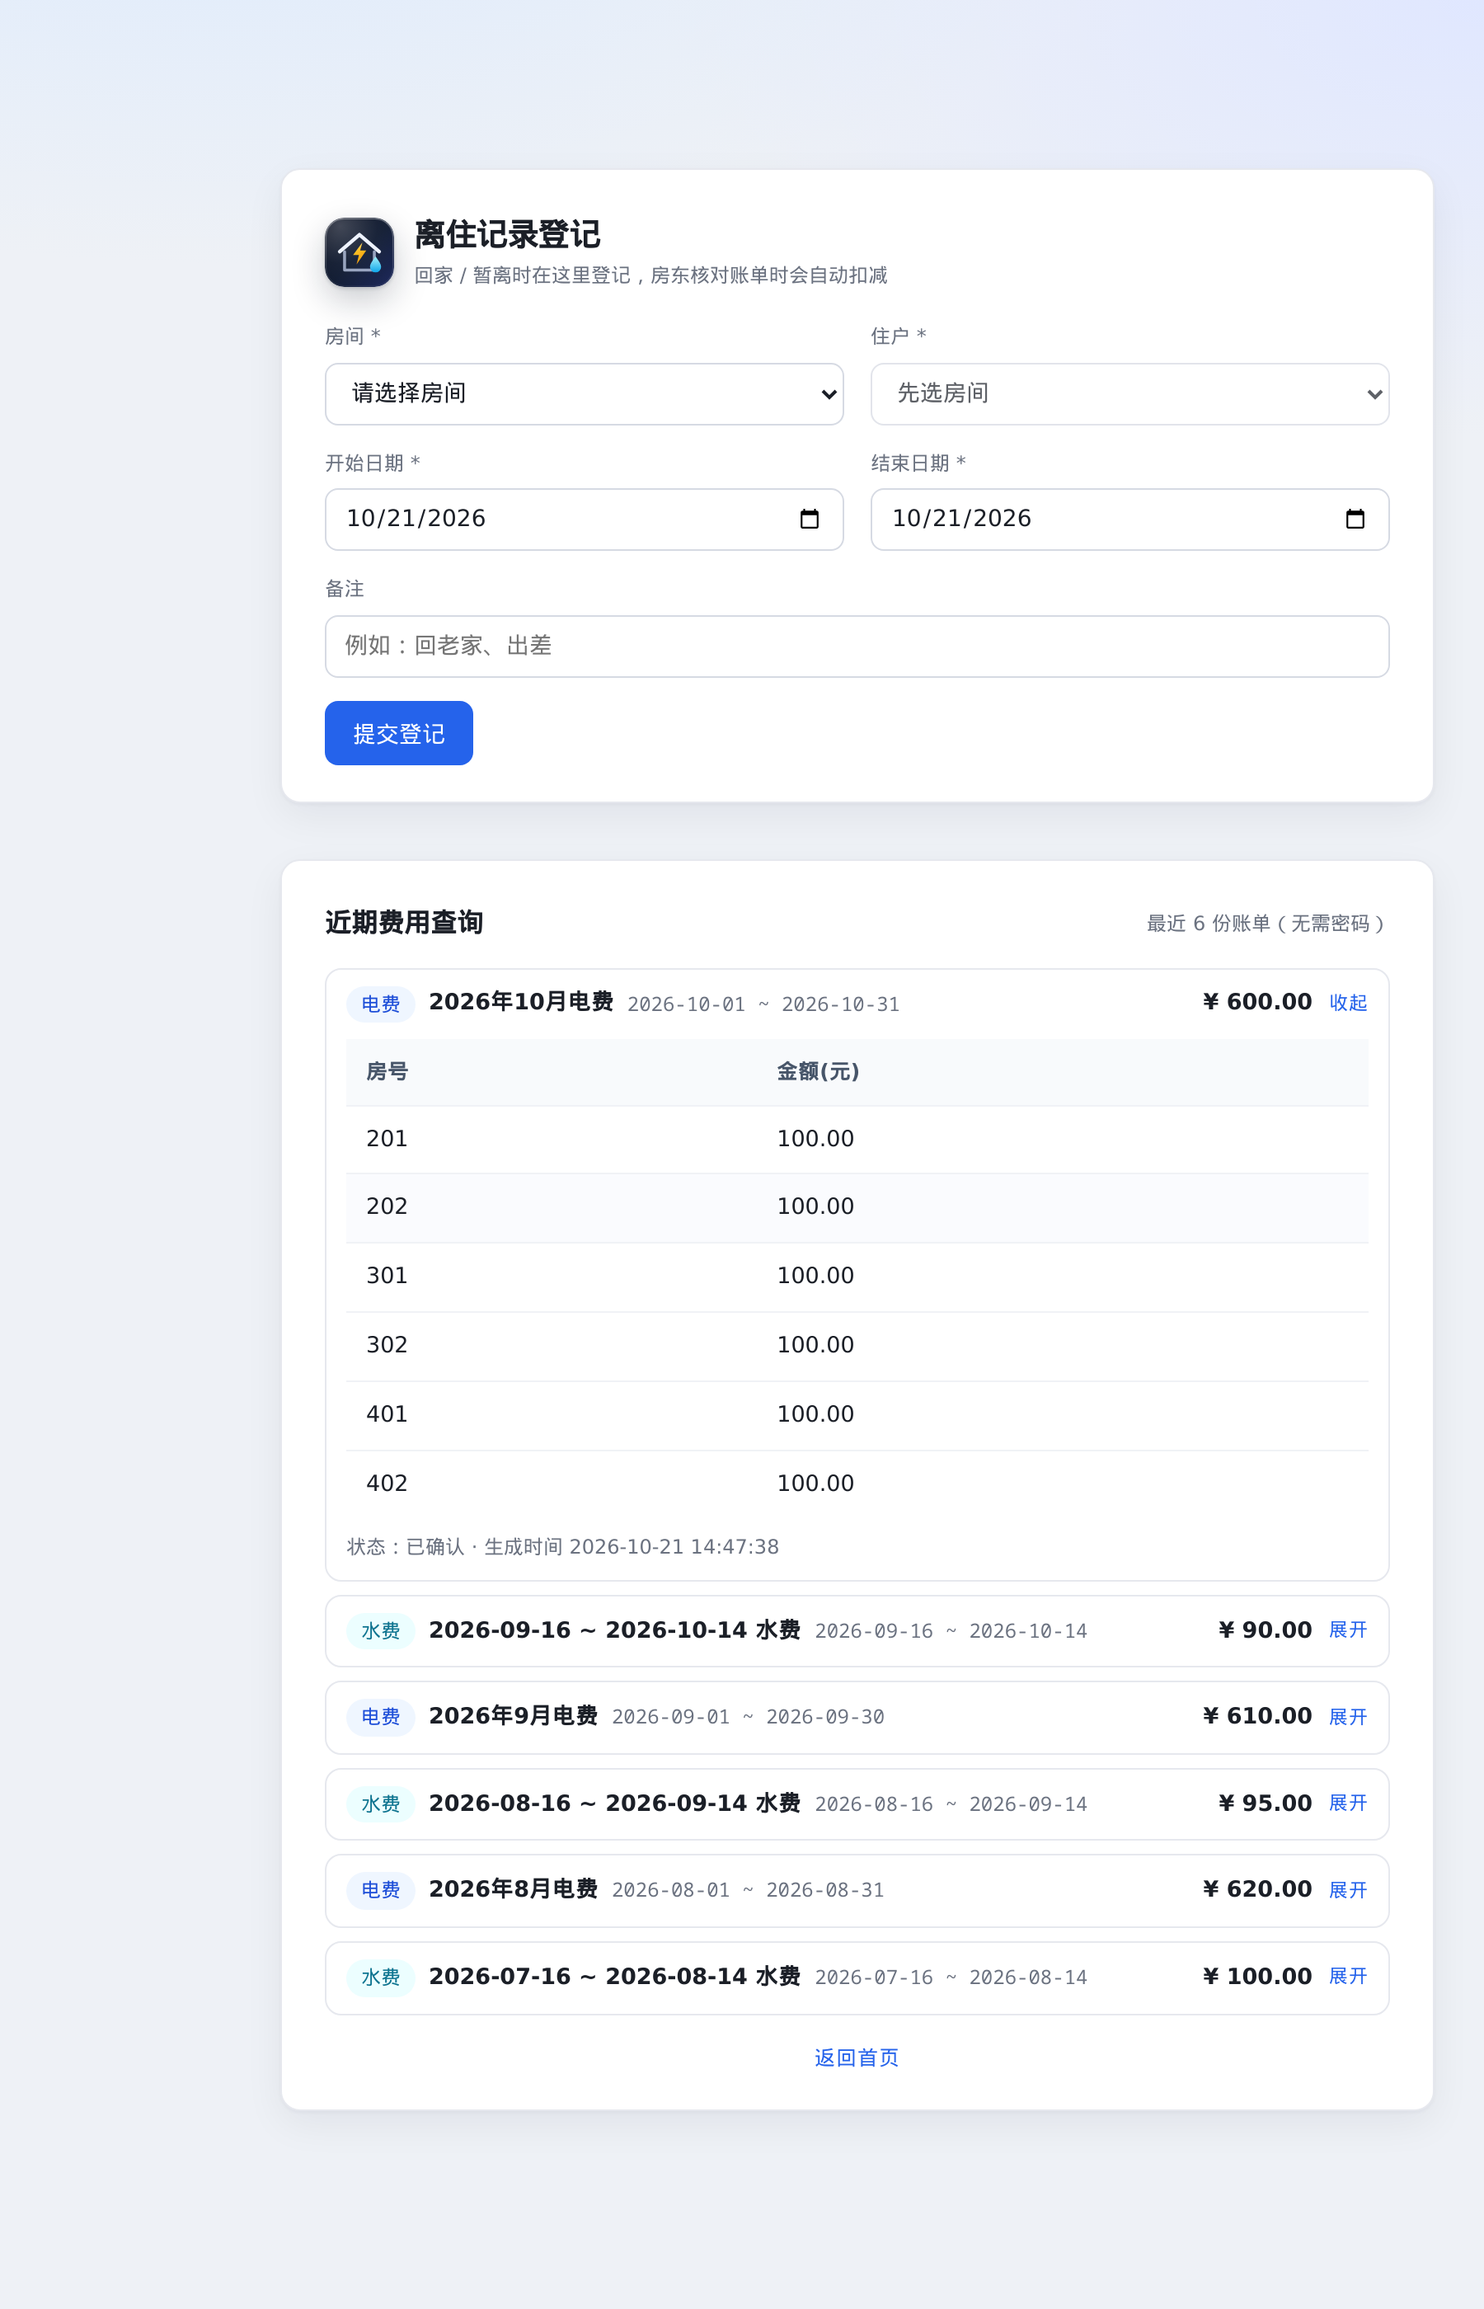
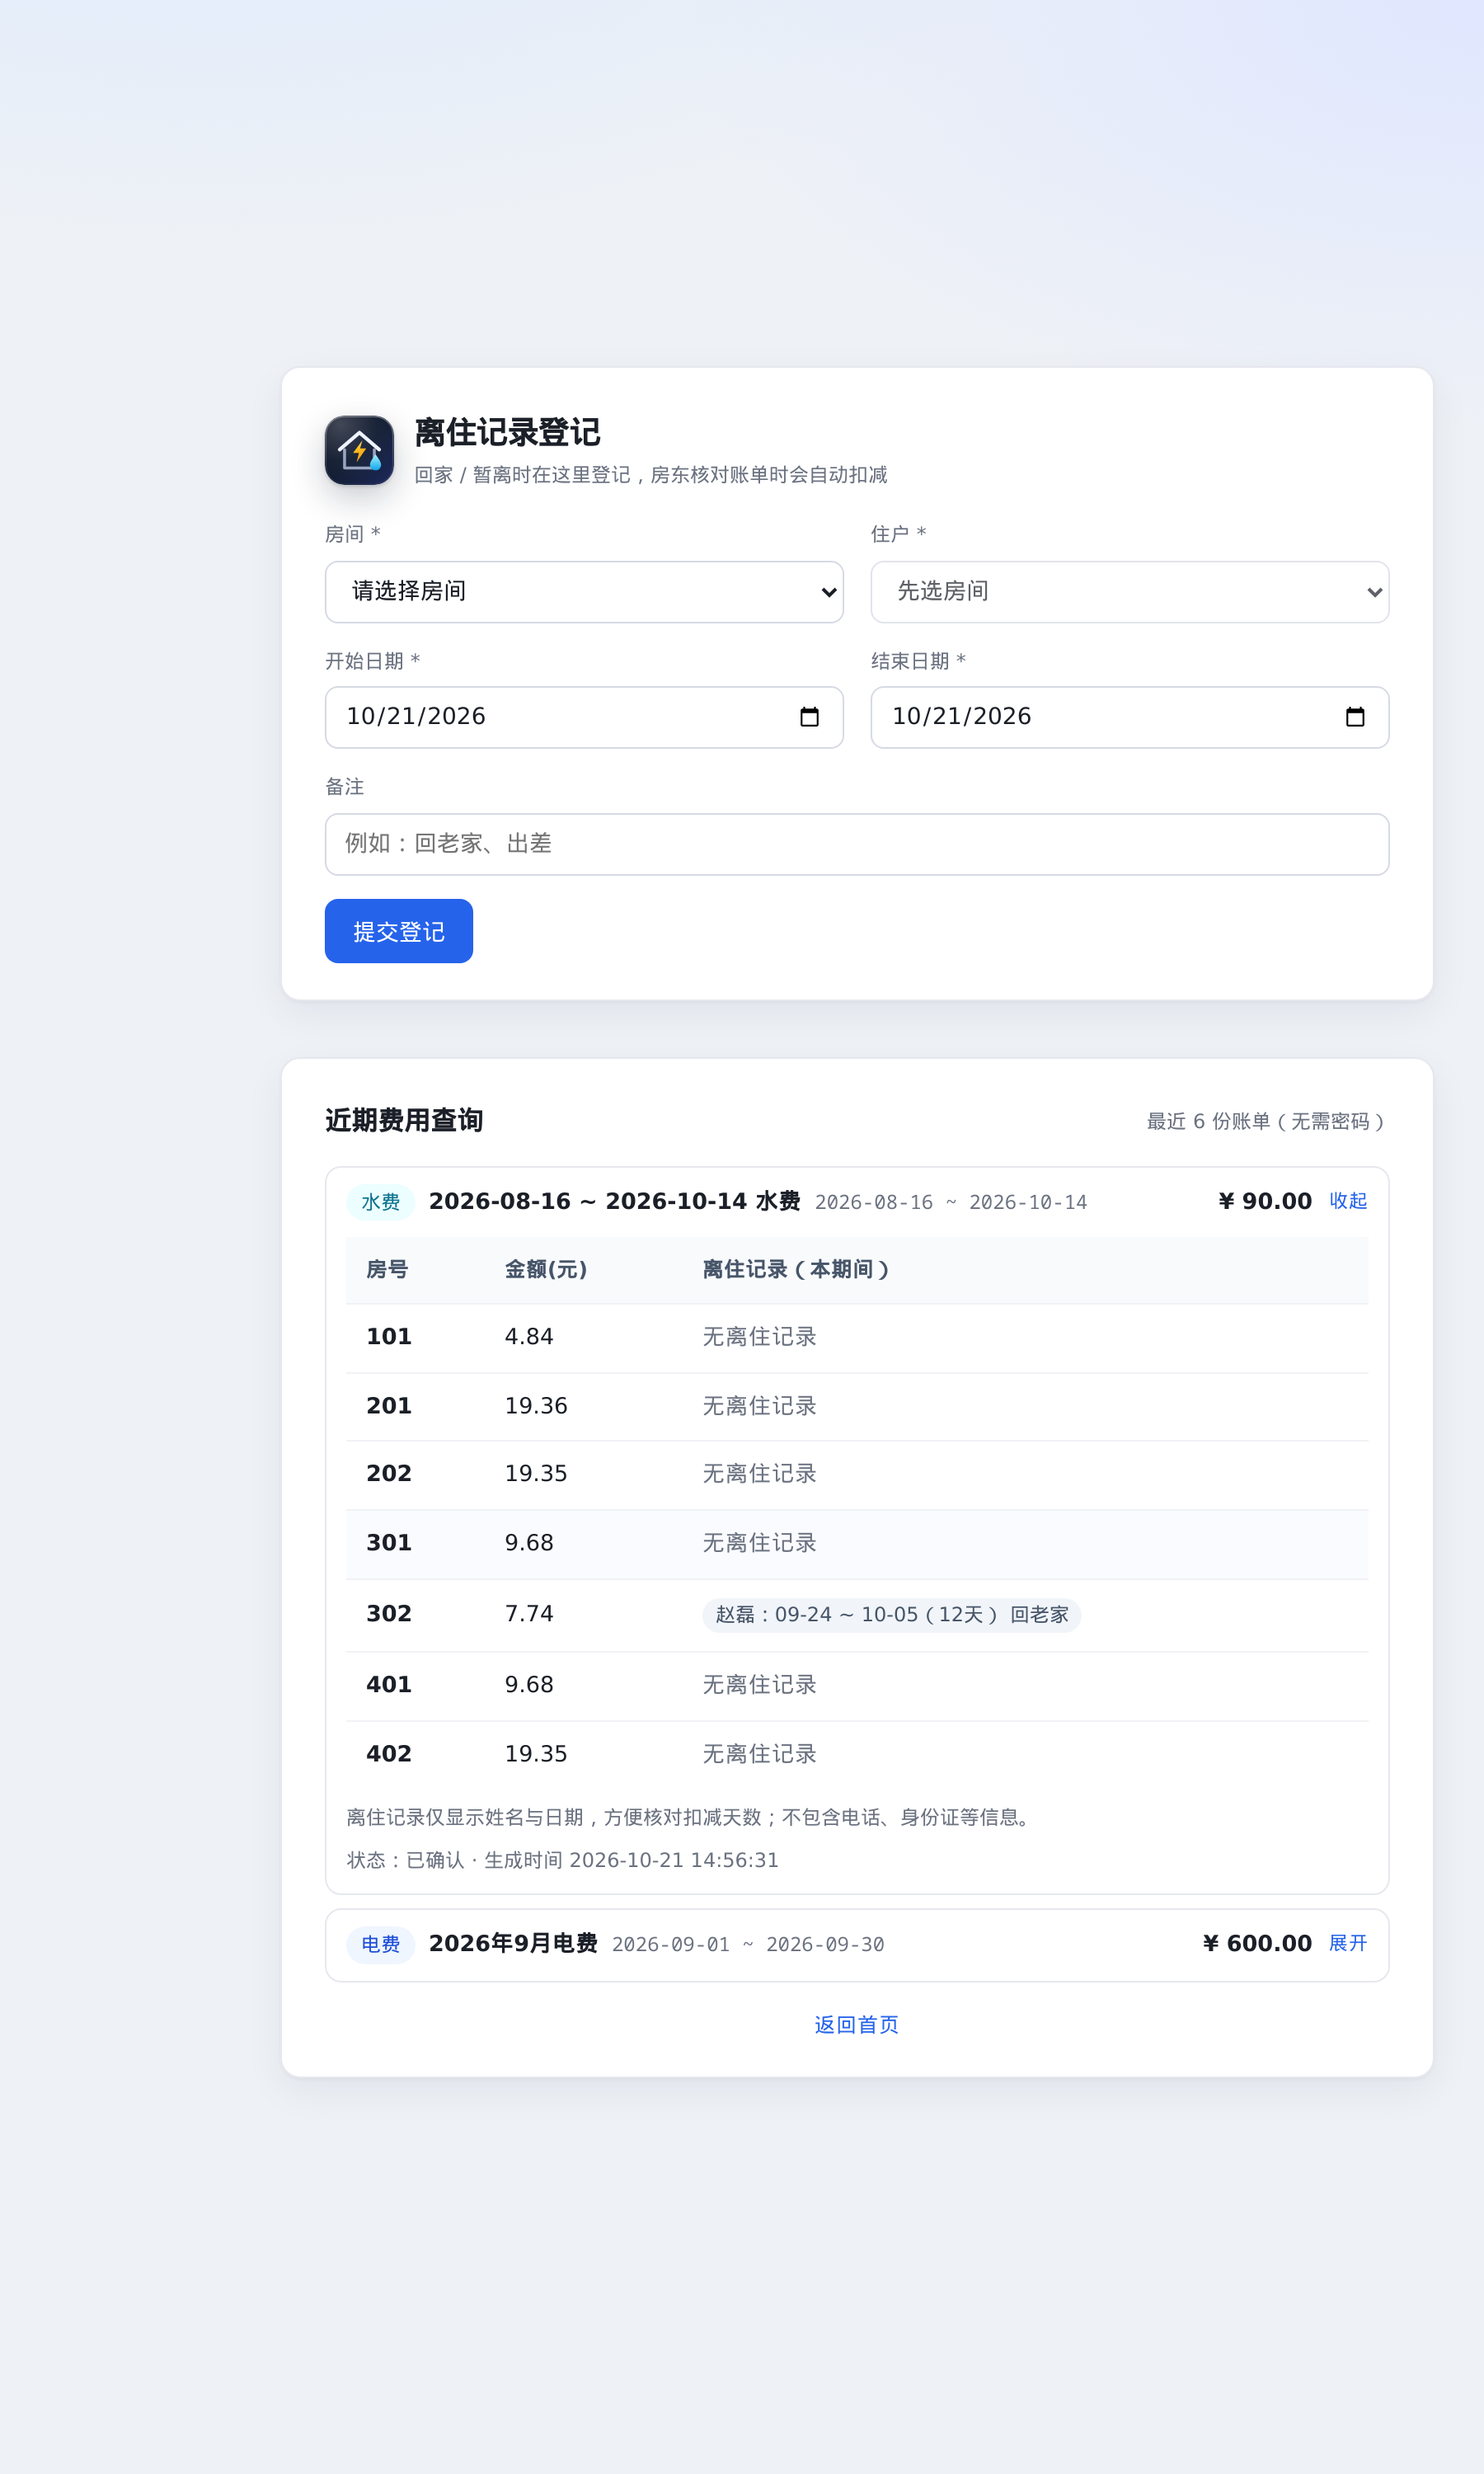
公开账单查询增加离住记录：展开账单可看每间房金额 + 本期离住（姓名/日期/天数），方便住户核对

diff --git a/app/public/absence.js b/app/public/absence.js
@@ -14,6 +14,23 @@ function escapeHtml(v) {
     .replace(/'/g, '&#39;');
 }
 
+function shortDate(d) {
+  return d ? String(d).slice(5) : '';
+}
+
+function absenceText(room) {
+  const list = room.absences || [];
+  if (!list.length) return '<span class="muted">无离住记录</span>';
+  return list
+    .map((a) => {
+      const range = a.start ? `${shortDate(a.start)} ~ ${shortDate(a.end)}` : '回老家';
+      return `<span class="chip gray">${escapeHtml(a.name)}：${range}（${a.days}天）${
+        a.note ? ' ' + escapeHtml(a.note) : ''
+      }</span>`;
+    })
+    .join(' ');
+}
+
 function yuan(cents) {
   return (Number(cents || 0) / 100).toLocaleString('zh-CN', {
     minimumFractionDigits: 2,
@@ -125,17 +142,20 @@ function renderBills(bills) {
           <span class="pb-total">¥ ${yuan(b.total_cents)}</span>
         </summary>
         <table class="data-table">
-          <thead><tr><th>房号</th><th class="num">金额(元)</th></tr></thead>
+          <thead><tr><th>房号</th><th class="num">金额(元)</th><th>离住记录（本期间）</th></tr></thead>
           <tbody>${
             b.rooms
               .map(
-                (r) => `<tr><td>${escapeHtml(r.room_no)}</td><td class="num">${yuan(
-                  r.amount_cents
-                )}</td></tr>`
+                (r) => `<tr>
+                  <td class="room-cell">${escapeHtml(r.room_no)}</td>
+                  <td class="num">${yuan(r.amount_cents)}</td>
+                  <td>${absenceText(r)}</td>
+                </tr>`
               )
-              .join('') || '<tr><td colspan="2" class="muted">暂无房间明细</td></tr>'
+              .join('') || '<tr><td colspan="3" class="muted">暂无房间明细</td></tr>'
           }</tbody>
         </table>
+        <p class="hint">离住记录仅显示姓名与日期，方便核对扣减天数；不包含电话、身份证等信息。</p>
         <p class="hint">状态：${b.status === 'draft' ? '草稿' : '已确认'} · 生成时间 ${escapeHtml(
           b.created_at || ''
         )}</p>

diff --git a/app/db.js b/app/db.js
@@ -628,11 +628,32 @@ class Store {
       )
       .all(n);
     const itemsStmt = this.db.prepare(
-      `SELECT room_no, amount_cents FROM bill_items WHERE bill_id = ? ORDER BY seq, id`
+      `SELECT room_no, amount_cents, tenants_json FROM bill_items WHERE bill_id = ? ORDER BY seq, id`
     );
     return bills.map((b) => ({
       ...b,
-      rooms: itemsStmt.all(b.id).map((i) => ({ room_no: i.room_no, amount_cents: i.amount_cents })),
+      rooms: itemsStmt.all(b.id).map((i) => {
+        // 只取「姓名 + 离住日期 + 天数」，不含电话/身份证/分摊金额
+        const absences = [];
+        for (const t of safeJson(i.tenants_json, [])) {
+          const list = Array.isArray(t.absences) ? t.absences : [];
+          if (list.length) {
+            for (const a of list) {
+              absences.push({
+                name: t.name,
+                start: a.start,
+                end: a.end,
+                days: a.days,
+                note: a.note || '',
+              });
+            }
+          } else if (t.absence_days > 0) {
+            // 兼容旧账单（当时未保存具体日期）
+            absences.push({ name: t.name, start: null, end: null, days: t.absence_days, note: '' });
+          }
+        }
+        return { room_no: i.room_no, amount_cents: i.amount_cents, absences };
+      }),
     }));
   }
 

diff --git a/app/public/absence.html b/app/public/absence.html
@@ -4,7 +4,7 @@
   <meta charset="UTF-8" />
   <meta name="viewport" content="width=device-width, initial-scale=1.0" />
   <title>离住记录登记</title>
-  <link rel="stylesheet" href="style.css?v=20261021g" />
+  <link rel="stylesheet" href="style.css?v=20261021h" />
   <link rel="icon" type="image/svg+xml" href="favicon.svg" />
 </head>
 <body class="auth-body">
@@ -94,6 +94,6 @@
     </div>
     </div>
   </main>
-  <script src="absence.js?v=20261021g"></script>
+  <script src="absence.js?v=20261021h"></script>
 </body>
 </html>

diff --git a/app/public/login.html b/app/public/login.html
@@ -4,7 +4,7 @@
   <meta charset="UTF-8" />
   <meta name="viewport" content="width=device-width, initial-scale=1.0" />
   <title>登录 · 房租水电费计算</title>
-  <link rel="stylesheet" href="style.css?v=20261021g" />
+  <link rel="stylesheet" href="style.css?v=20261021h" />
   <link rel="icon" type="image/svg+xml" href="favicon.svg" />
 </head>
 <body class="auth-body">

diff --git a/app/public/index.html b/app/public/index.html
@@ -4,7 +4,7 @@
   <meta charset="UTF-8" />
   <meta name="viewport" content="width=device-width, initial-scale=1.0" />
   <title>房租水电费计算</title>
-  <link rel="stylesheet" href="style.css?v=20261021g" />
+  <link rel="stylesheet" href="style.css?v=20261021h" />
   <link rel="icon" type="image/svg+xml" href="favicon.svg" />
 </head>
 <body>
